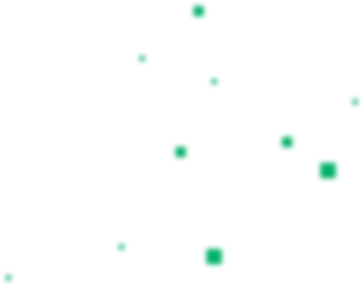
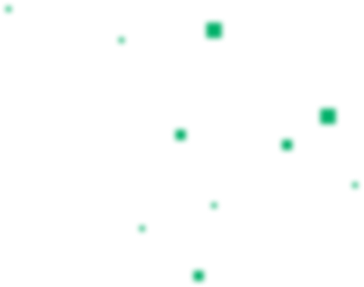
full update background

diff --git a/src/css/hero.css b/src/css/hero.css
@@ -1,9 +1,17 @@
 .hero-section {
-  /* background-image: url('../img/hero-bg1x.png');
+  background-image: url('../img/hero-bg1x.png');
   background-size: 100%;
-  background-position: right 14px top 20px; */
+  background-position: right 14px top 20px;
   padding-top: 112px;
-  /* background-repeat: no-repeat; */
+  background-repeat: no-repeat;
+}
+
+@media screen and (min-device-pixel-ratio: 2),
+(min-resolution: 192dpi),
+(min-resolution: 2dppx) {
+    .hero-section {
+        background-image: url('../img/hero-bg2x.png');
+    }
 }
 
 .container.hero-decor h1 {
@@ -79,12 +87,20 @@
   }
 
   .hero-section {
-    /* background-image: url('../img/decor-bg-5.png');
-    background-size: 704px 896px;
-    background-position: right 14px top 30px;
-    background-repeat: no-repeat; */
+    background-image: url('../img/decor-bg-hero-t1x.png'), url('../img/decor-bg-hero-t1x.png');
+    background-size: 356px 276px;
+    background-position: right 32px top 14px, top 435px left 156px ;
+    background-repeat: no-repeat, no-repeat;
     padding-top: 88px;
   }
+
+   @media screen and (min-device-pixel-ratio: 2),
+   (min-resolution: 192dpi),
+   (min-resolution: 2dppx) {
+       .hero-section {
+           background-image: url('../img/decor-bg-hero-t2x.png'), url('../img/decor-bg-hero-t2x.png');
+       }
+   }
 
   .container.hero-decor p {
     color: var(--Black, #292929);
@@ -100,6 +116,7 @@
 
   .container.hero-decor h1 {
     margin-bottom: 60px;
+    font-size: 124px;
   }
 
   .social-list {
@@ -135,12 +152,36 @@
     margin-bottom: 0;
   }
 
-  /* .hero-section {
-    background-image: url('../img/decor-bg-5.png');
-    background-size: 704px 896px;
-    background-position: right 14px top 30px;
-    background-repeat: no-repeat;
-  } */
+  .hero-section {
+      padding-top: 88px;
+      background-image: url('../img/decor-bg-hero-d1x.png');
+      background-position: top right 32px;
+      background-repeat: no-repeat;
+      background-size: 356px 276px;
+  }
+
+  .hero-section::before {
+      content: '';
+      position: absolute;
+      bottom: -48px;
+      left: 236px;
+      width: 356px;      
+      height: 276px;      
+      background-image: url('../img/decor-bg-hero-t1x.png');
+      background-size: cover;
+    
+  }
+
+  @media screen and (min-device-pixel-ratio: 2),
+  (min-resolution: 192dpi),
+  (min-resolution: 2dppx) {
+      .hero-section {
+          background-image: url('../img/decor-bg-hero-d2x.png');
+      }
+      .hero-section::before {
+        background-image: url('../img/decor-bg-hero-t2x.png');
+      }
+  }
 
   .desc-img {
     display: flex;
